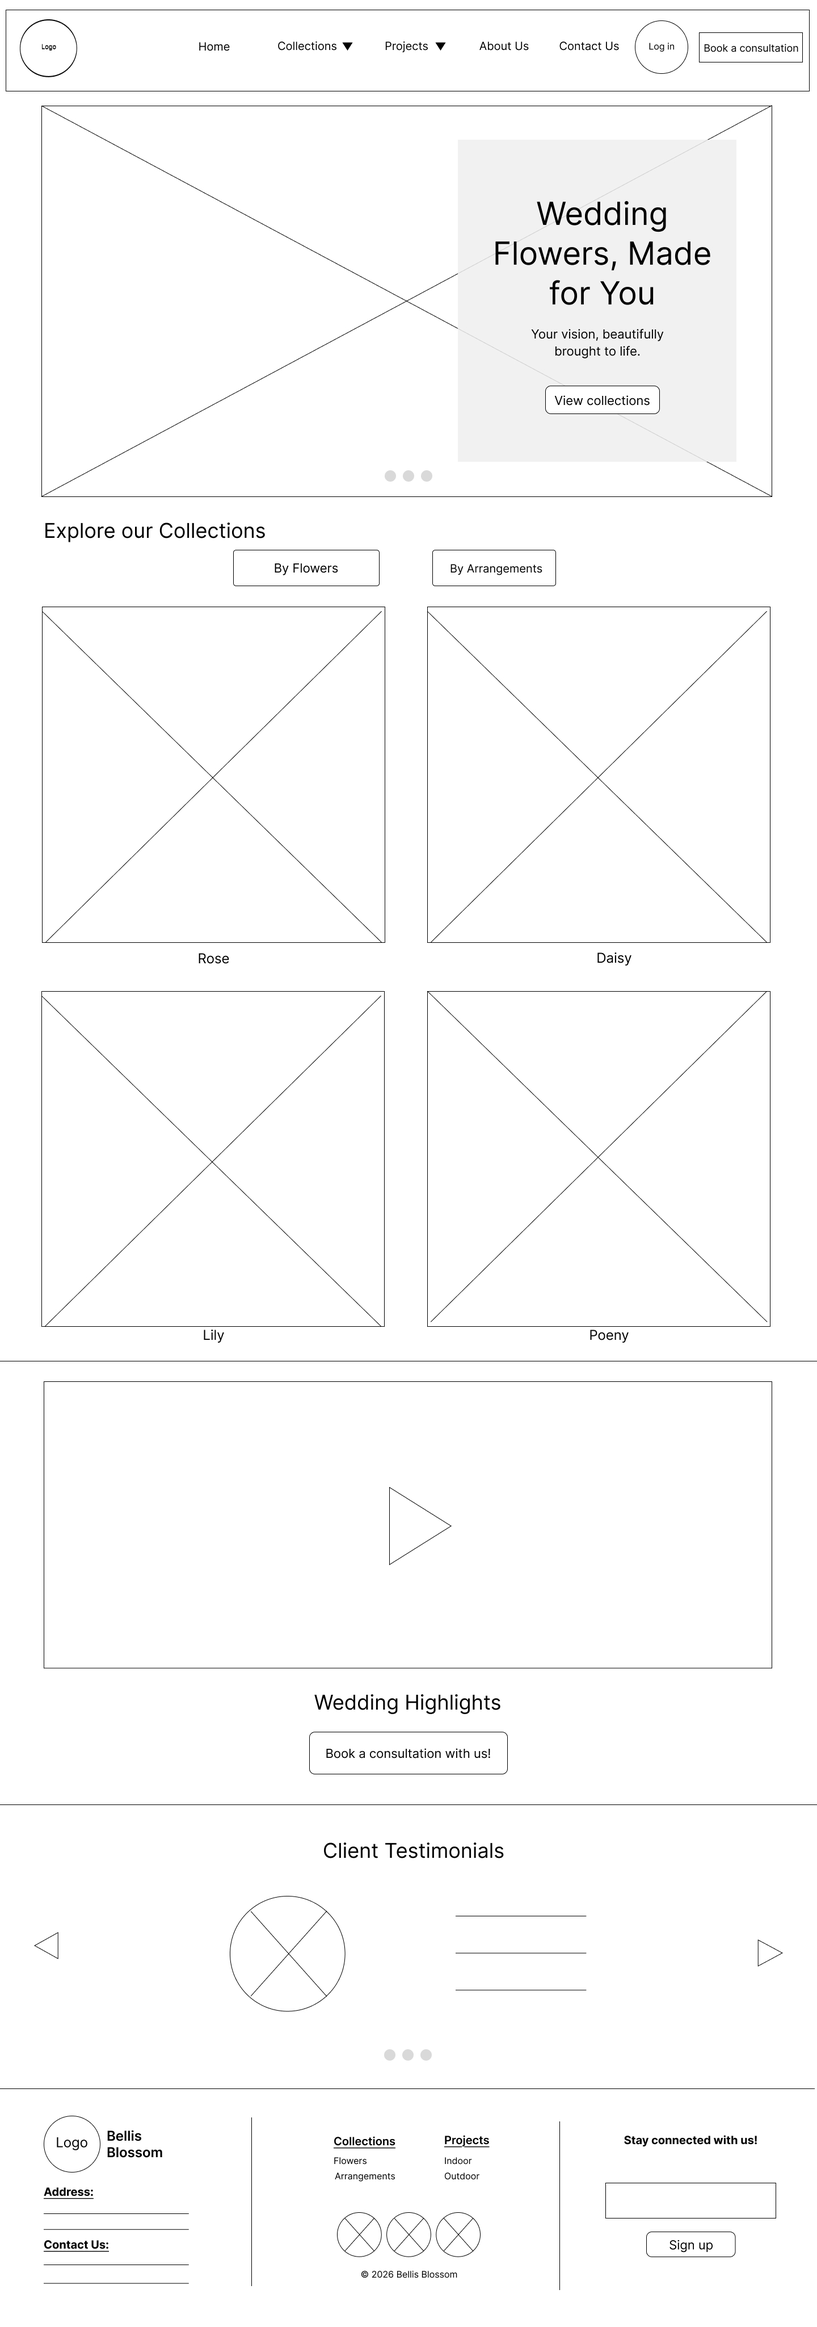
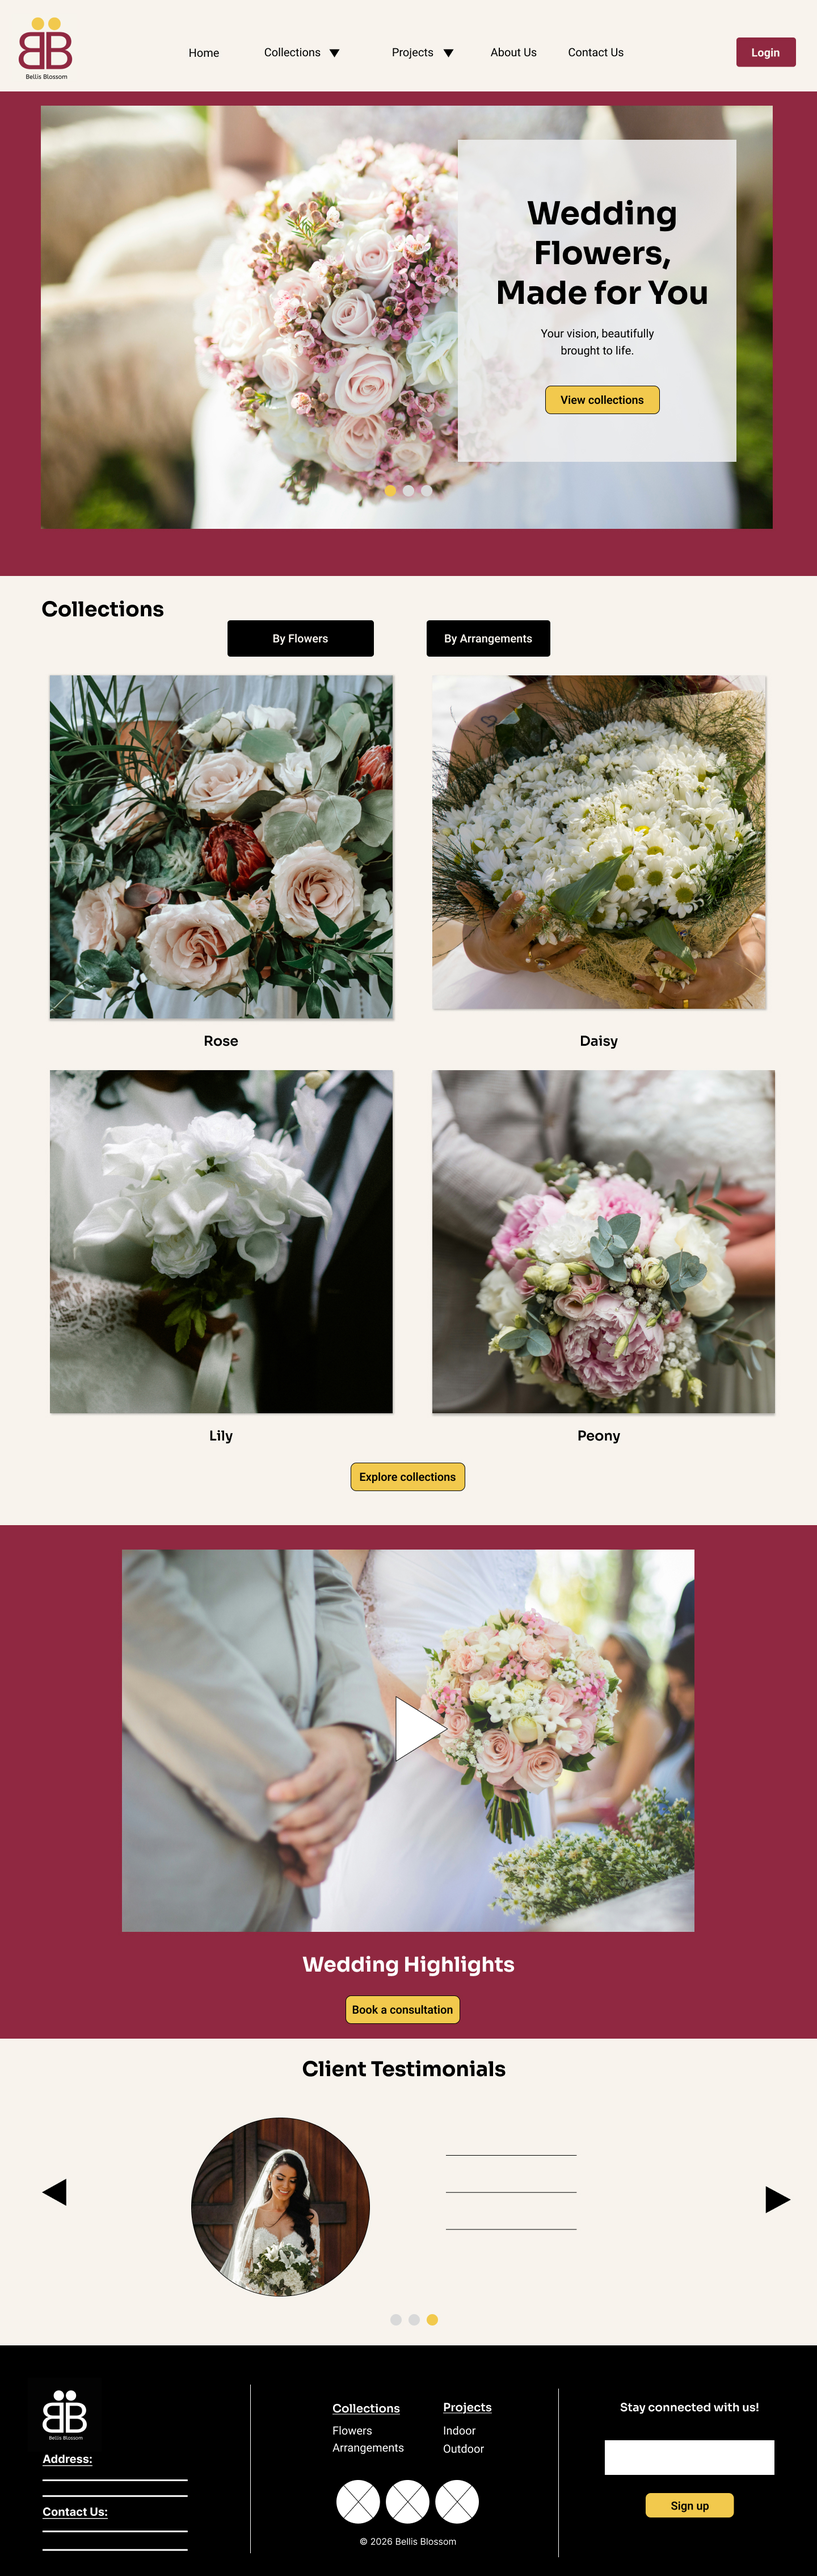
add font

diff --git a/css/styles.css b/css/styles.css
@@ -2,11 +2,80 @@
   box-sizing: border-box;
 }
 
+
+.heebo-<uniquifier> {
+  font-family: "Heebo", sans-serif;
+  font-optical-sizing: auto;
+  font-weight: <weight>;
+  font-style: normal;
+}
+
+.sora-<uniquifier> {
+  font-family: "Sora", sans-serif;
+  font-optical-sizing: auto;
+  font-weight: <weight>;
+  font-style: normal;
+}
+
+body {
+    margin: 0;
+    font-family: "Heebo", sans-serif;
+    color: #030303;
+    background-color: #F7F3ED;
+
+    display: grid;
+    grid-template-areas:
+        "header"
+        "main"
+        "footer";
+}
+
+main {
+    grid-area: main;
+}
+
+footer {
+    grid-area: footer;
+}
+
+h1, h2, h3 {
+    font-family: "Sora", sans-serif;
+}
+
+h1 {
+    font-size: 56px;
+    line-height: 70px;
+    font-weight: 700;
+}
+
+h2 {
+    font-size: 36px;
+    line-height: 45px;
+    font-weight: 700;
+}
+
+h3 {
+    font-size: 24px;
+    line-height: 30px;
+    font-weight: 600;
+}
+
+p {
+    font-size: 22px;
+    line-height: 30px;
+}
+
+img {
+    max-width: 100%;
+    display: block;
+}
+
 .site-header {
+    grid-area: header;
     display: flex;
     justify-content: space-between;
     align-items: center;
-    padding: 14px 20px;
+    padding: 24px 60px;
 }
 
 .skip-link {
@@ -42,11 +111,6 @@
   text-decoration: underline;
 }
 
-img {
-    max-width: 100%;
-    height: auto;
-}
-
 .hero-section {
     display: flex;
     flex-direction: column;
@@ -64,13 +128,13 @@ img {
 }
 
 .collections-grid {
-    display: flex;
-    flex-wrap: wrap;
-    gap: 20px;
+    display: grid;
+    grid-template-columns: repeat(auto-fit, minmax(500px, 1fr));
+    gap: 40px;
     list-style: none;
     padding: 0;
-    max-width: 800px;
-    margin: 30px auto;
+    max-width: 1248px;
+    margin: 0 auto;
 }
 
 .flower-card {

diff --git a/index.html b/index.html
@@ -5,7 +5,9 @@
     <meta name="viewport" content="width=device-width, initial-scale=1.0">
     <title>Assignment 6: Grid Page Layout</title>
     <link rel="stylesheet" href="css/styles.css">
-    
+        <style>
+        @import url('https://fonts.googleapis.com/css2?family=Heebo:wght@100..900&family=Sora:wght@100..800&display=swap');
+        </style>
 </head>
 
 <body>
